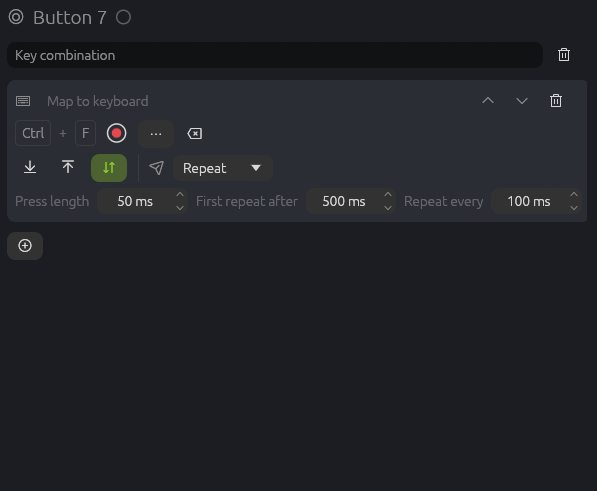
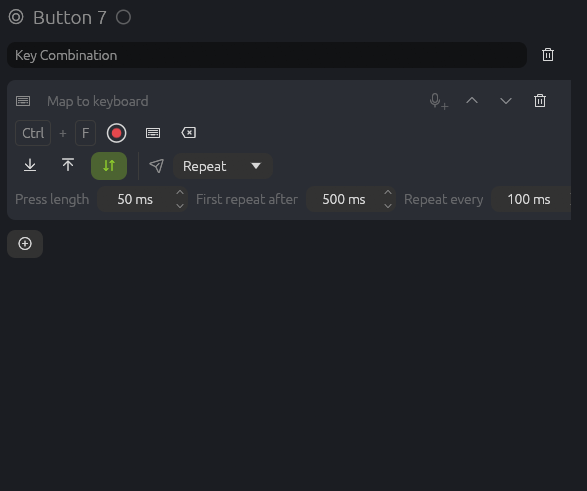
docs: keyboard picker of Map to keyboard on the website

diff --git a/site/learn.html b/site/learn.html
@@ -237,8 +237,9 @@
           </article>
           <article class="learn-action" id="map-to-keyboard">
             <h3><i class="ph ph-keyboard" aria-hidden="true"></i>Map to keyboard</h3>
-            <p>Presses keys while the input is held: they go down in order and come up in reverse order. Click the record button and press the keys together; recording ends when all are let go. Keys most keyboards lack, F13 to F24 and the media keys (play/pause, next and previous track, volume, mute), are in the list behind the <strong>…</strong> button. If the input is let go in another mode, the keys still come up. How the keys follow the input, held, pulsed, repeated or toggled, is set with <a href="#how-to-send">How to send</a>.</p>
+            <p>Presses keys while the input is held: they go down in order and come up in reverse order. Click the record button and press the keys together; recording ends when all are let go. The keyboard button opens a full-size keyboard: click keys to add them, click again to remove them. It also has the keys most keyboards lack: F13 to F24, the media keys (play/pause, stop, next and previous track, volume, mute), the browser and launch keys (back, forward, refresh, stop, home, search, favorites, mail, calculator, my computer, media player), sleep, wake and power, and the extra keys of other layouts: the ISO key next to Left Shift, the Japanese and Korean keys and the numpad's = and ,. If the input is let go in another mode, the keys still come up. How the keys follow the input, held, pulsed, repeated or toggled, is set with <a href="#how-to-send">How to send</a>.</p>
             <figure class="shot"><img src="img/actions/map-to-keyboard.png" loading="lazy" alt="Map to keyboard with the keys Ctrl and F, sent repeatedly while the button is held"></figure>
+            <figure class="shot wide"><img src="img/actions/map-to-keyboard-picker.png" loading="lazy" alt="The keyboard behind the keyboard button, with Ctrl and F picked"></figure>
           </article>
           <article class="learn-action" id="map-to-mouse">
             <h3><i class="ph ph-mouse" aria-hidden="true"></i>Map to mouse</h3>

diff --git a/site/styles.css b/site/styles.css
@@ -1487,6 +1487,11 @@ footer {
   margin: var(--s-300) 0 0;
 }
 
+/* The keyboard picker is wider than the action editor: shown at its own size. */
+.learn-action .shot.wide {
+  max-width: 790px;
+}
+
 /* Motion: sections with a visual load in when they scroll into view (rise and resolve from blur),
    then every visual acts out what it does on a loop (main.js). Only with JS and full motion. */
 
